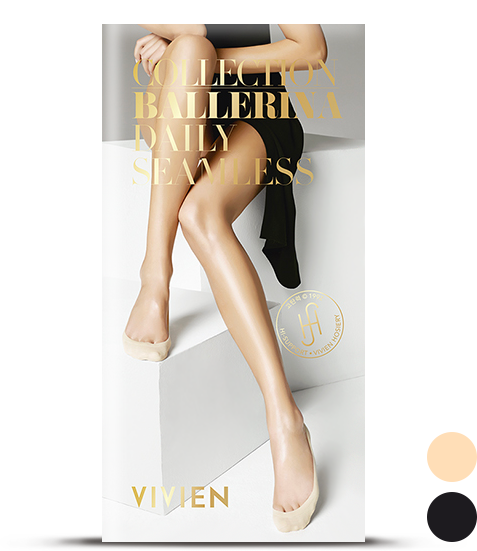
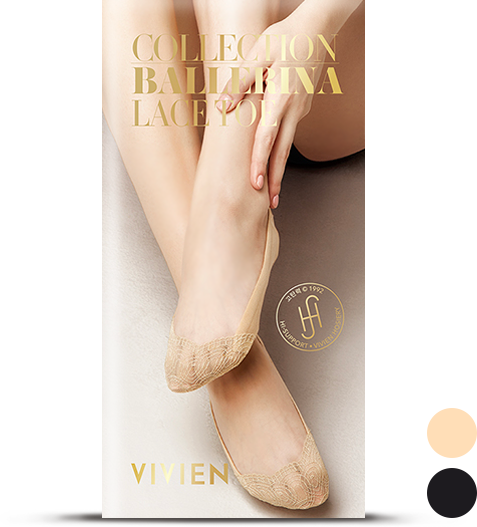
마이그레이션 > 신제품 (단종)

diff --git a/_ui/responsive/html/product/one-for-one/seasonal-product-and-others/e-comm_LP_9796_10_Vivien_Daily_Sewn_Slippers.html b/_ui/responsive/html/product/one-for-one/seasonal-product-and-others/e-comm_LP_9796_10_Vivien_Daily_Sewn_Slippers.html
@@ -1,0 +1,146 @@
+<!DOCTYPE html>
+<html lang="ko">
+<head>
+	<title>제품상세 | ABN Korea</title>
+	<meta http-equiv="Content-Type" content="text/html; charset=utf-8">
+	<meta http-equiv="X-UA-Compatible" content="IE=edge">
+	<meta charset="utf-8">
+	<meta name="viewport" content="width=device-width, initial-scale=1">
+	<meta name="keywords">
+	<meta name="description" content="NY Fee Bundle">
+	<meta name="robots" content="index,follow">
+
+	<link rel="stylesheet" type="text/css" href="/_ui/responsive/theme-blue/css/akl-lib.css"><!-- 플러그인용 css : 2018.03.14 추가  -->
+	<link rel="stylesheet" type="text/css" href="/_ui/responsive/theme-blue/css/base.css">
+	<link rel="stylesheet" type="text/css" href="/_ui/responsive/theme-blue/css/akl-common.css">
+	<script type="text/javascript" src="/_ui/responsive/theme-blue/js/jquery.min.js"></script>
+	<script type="text/javascript" src="/_ui/responsive/theme-blue/js/bootstrap.min.js"></script>
+	<script type="text/javascript" src="/_ui/responsive/theme-blue/js/bootstrap.datepicker.js"></script><!-- datepicker : 2018.03.19 추가  -->
+	<script type="text/javascript" src="/_ui/responsive/theme-blue/js/owl.carousel.js"></script>
+	<script type="text/javascript" src="/_ui/responsive/theme-blue/js/isotope.pkgd.js"></script><!-- gnb 플러그인 : 2018.03.23 추가  -->
+	<script type="text/javascript" src="/_ui/responsive/theme-blue/js/select2.js"></script>
+	<script type="text/javascript" src="/_ui/responsive/theme-blue/js/new.js"></script>
+	<script type="text/javascript" src="/_ui/responsive/theme-blue/js/jquery.raty.min.js"></script>
+	<script type="text/javascript" src="/_ui/responsive/theme-blue/js/akl_common.js"></script>
+</head>
+
+<body class="akl">
+	<!-- skipToContent -->
+	<div id="skipToContent">
+	<a href="#contents">콘텐츠 바로가기 </a>
+	</div>
+	<!-- //skipToContent -->
+
+	<main>
+		<div id="header"></div>
+		<div class="container-fluid main-container" id="contents">
+			<div class="print-hide breadcrumb-section">
+				<ol class="breadcrumb">
+					<li><a href="#">홈</a></li>
+					<li><a href="#">뷰티</a></li>
+					<li><a href="category-page.html">메이크업</a></li>
+					<li class="active">포인트 메이크업</li>
+				</ol>
+			</div>
+		</div>
+		<div class="header-margin hidden-sm hidden-xs"></div>
+
+		<div class="container-fluid main-container">
+
+			<div class="amway-theme">
+				<div class="accordion-element new-accordion-element" id="productPageAccordion" role="tablist" aria-multiselectable="true">
+
+					<div class="panel panel-default accordion-panel">
+						<div class="accordion-panel-heading" role="tab" id="details">
+							<a class="accordion-toggle collapsed" data-toggle="collapse" data-parent="#productPageAccordion" href="#electr">
+								<div class="accordion-panel-title panel-title">
+									<span class="accordion-title-wrapper">
+										<span class="title-element accordion-header-icon"></span>
+										<span class="title-element title-text">&acute;전자상거래 등에서의 상품 등의 정보제공에 관한 고시&acute; 개정에 따른 항목</span>
+										<span class="title-element accordion-icon-wrapper"></span>
+									</span>
+								</div>
+							</a>
+						</div>
+						<div id="electr" class="accordion-panel-collapse panel-collapse collapse in" role="tabpanel" aria-labelledby="details">
+							<div class="panel-body electr">
+								<div class="accordion-collapse-wrapper">
+									<div class="truncated-text">
+										<div class="table-content">
+											<!-- 전자상거래 등에서의 상품정보 제공 고시 Start -->
+											<ul class="ecommerce-lst">
+												<li>
+													<div class="th-tit">포장단위별 용량(중량), 수량</div>
+													<div class="td-txt">3켤레/1세트</div>
+												</li>
+												<li>
+													<div class="th-tit">소비자상담 관련 전화번호</div>
+													<div class="td-txt">남영비비안 고객상담실: 080-920-3333<br>
+														한국암웨이 고객센터: 1588-0080</div>
+												</li>
+												<li>
+													<div class="th-tit">품명 및 모델명</div>
+													<div class="td-txt">비비안 니하이 와이드밴드 삭스</div>
+												</li>
+												<li>
+													<div class="th-tit">색상</div>
+													<div class="td-txt">누드베이지 2켤레/블랙 1켤레</div>
+												</li>
+												<li>
+													<div class="th-tit">재질 (섬유의 경우 혼용률)</div>
+													<div class="td-txt">나일론, 폴리우레탄</div>
+												</li>
+												<li>
+													<div class="th-tit">사용연령 또는 체중범위(품질경영 및 공산품안전관리법에 따라 표시해야 하는 사항은 반드시 표기)</div>
+													<div class="td-txt">
+														신장: 155~170cm<br>
+														엉덩이둘레: 85~100cm
+													</div>
+												</li>
+												<li>
+													<div class="th-tit">제조자, 수입품의 경우 수입자를 함께 표기 (병행수입의 경우 병행수입 여부로 대체 가능)</div>
+													<div class="td-txt">(주)남영비비안 서울특별시 용산구 서빙고로 51길 52</div>
+												</li>
+												<li>
+													<div class="th-tit">제조국</div>
+													<div class="td-txt">대한민국</div>
+												</li>
+												<li>
+													<div class="th-tit">세탁방법 및 취급시 주의사항</div>
+													<div class="td-txt">
+														<ol class="decimal-num">
+															<li>1. 허리밴드의 : : : 표시 부분을 앞쪽으로 착용하십시오.</li>
+															<li>2. 중성세제를 이용해 손으로 세탁 하십시오.</li>
+															<li>3. 짙은 색상과 밝은 색상 제품은 반드시 분리하여 단독세탁 하십시오.</li>
+														</ol>
+													</div>
+												</li>												
+												<li>
+													<div class="th-tit">품질보증기준</div>
+													<div class="td-txt">제품에 하자가 있는 경우 공정거래위원회 고시 소비자 분쟁해결기준에 따른 교환 및 반품이 가능합니다.</div>
+												</li>
+												<li>
+													<div class="th-tit">A/S 책임자와 전화번호</div>
+													<div class="td-txt">남영비비안 고객상담실: 080-920-3333</div>
+												</li>
+											</ul>
+											<!-- 전자상거래 등에서의 상품정보 제공 고시 End -->
+										</div>
+									</div>
+								</div>
+							</div>
+						</div>
+					</div>
+
+				</div>
+			</div>
+
+		</div>
+
+		<div id="quick"></div>
+		<div id="footer"></div>
+	</main>
+
+</body>
+</html>
+

diff --git a/_ui/responsive/html/product/one-for-one/seasonal-product-and-others/LP_9297_10_Vivien_Valerina_Reiss_Tuchexin.html b/_ui/responsive/html/product/one-for-one/seasonal-product-and-others/LP_9297_10_Vivien_Valerina_Reiss_Tuchexin.html
@@ -1,7 +1,7 @@
 <!DOCTYPE html>
 <html lang="ko">
 <head>
-	<title>비비안 데일리 무봉제 덧신 상세정보</title>
+	<title>비비안 발레리나 레이스 토우 덧신 상세정보</title>
 	<meta http-equiv="Content-Type" content="text/html; charset=utf-8">
 	<meta http-equiv="X-UA-Compatible" content="IE=edge">
 	<meta charset="utf-8">
@@ -65,50 +65,36 @@
 											<div class="v-logo"><img src="/_ui/responsive/theme-blue/images/akl_product/common/logo_vivien.png" alt="VIVIEN 로고"></div>
 											<div class="txt-info-visual">
 												<div class="v-logo-txt">각종 패션 관련 제품과 특정 시즌에만 출시되는 제품입니다.</div>
-												<div class="v-tit">비비안 <span class="beige02">데일리 무봉제 덧신</span></div>
+												<div class="v-tit">비비안 <span class="beige02">발레리나 레이스 토우 덧신</span></div>
 												<p class="v-txt">
-													발등 부분에 봉제 라인이 없어 발이 배기지 않고 편안한 무지 덧신입니다.<br>
+													신축성 있는 레이스토우 포인트가 여성스러운 덧신입니다.<br>
 													덧신 안쪽 테두리에 실리콘 처리가 되어 있어 착용 시 발에 자국이 남지 않으며 쉽게 벗겨지지 않습니다.<br>
 													발바닥 앞쪽에 부착된 실리콘이 밀림현상을 방지합니다.<br>
-													면 원단을 사용하여 흡수가 잘 되며 위생적입니다.
+													면(COTTON) 원단을 사용하여 땀 흡수가 잘되며 위생적입니다.
 												</p>	
 											</div>	
 											<div class="v-pro">
-												<span><img src="/_ui/responsive/theme-blue/images/akl_product/one-for-one/visual_top_9295.png" alt="비비안 데일리 무봉제 덧신 이미지"></span>
+												<span><img src="/_ui/responsive/theme-blue/images/akl_product/one-for-one/visual_top_9296.png" alt="비비안 발레리나 레이스 토우 덧신 이미지"></span>
 											</div>
 										</div>
 										<!-- //비주얼 영역 -->
 										
 										<!--  content 영역 -->
 										<div class="detail-content-area vivien-cont-wrap">
-										
-											<div class="product-rank type02 aroma gray">
-												<div class="rank-img">
-													<span class="img-box"><img src="/_ui/responsive/theme-blue/images/akl_product/one-for-one/logo_aroma.png" alt="로고"></span>
-												</div>
-												<div class="rank-box">
-													<div class="com-tit2">아로마 마이크로 캡슐 공법이란?</div>
-													<p class="rank-txt">항균 효과가 있는 송침유(소나무에서 추출한 기름)를 마이크로 캡슐화하여 섬유에 부착하는 기술입니다.<br>
-														마찰에 의해 캡슐이 터지면서 유해균(황색포도상구균, 폐렴균)의 번식을 억제하고 은은한 자연의 향으로 쾌적함을 유지합니다.<br>
-														비비안이 암웨이만을 위해 특별히 적용한 기술을 만나보세요.</p>
-												</div>
-											</div>
-											
-											
 											<div class="ingestion-usage info-deth-lst">
 												<dl>
 													<dt>제조국</dt>
 													<dd>
 														<ul class="norm-lst">
-															<li>대한민국</li>
+															<li>베트남</li>
 														</ul>
 													</dd>
-													</dl>												
+													</dl>								
 												<dl>
 													<dt>내용량</dt>
 													<dd>
 														<ul class="norm-lst">
-															<li>3켤레(누드베이지 2켤레, 블랙 1켤레)</li>
+															<li>누드베이지 2켤레, 블랙 1켤레 / 세트</li>
 														</ul>
 													</dd>
 												</dl>												

diff --git a/_ui/responsive/html/product/one-for-one/seasonal-product-and-others/LP_9296_10_Vivien_Valerina_Reiss_Tuchexin.html b/_ui/responsive/html/product/one-for-one/seasonal-product-and-others/LP_9296_10_Vivien_Valerina_Reiss_Tuchexin.html
@@ -1,7 +1,7 @@
 <!DOCTYPE html>
 <html lang="ko">
 <head>
-	<title>비비안 데일리 무봉제 덧신 상세정보</title>
+	<title>비비안 발레리나 레이스 토우 덧신 상세정보</title>
 	<meta http-equiv="Content-Type" content="text/html; charset=utf-8">
 	<meta http-equiv="X-UA-Compatible" content="IE=edge">
 	<meta charset="utf-8">
@@ -65,36 +65,22 @@
 											<div class="v-logo"><img src="/_ui/responsive/theme-blue/images/akl_product/common/logo_vivien.png" alt="VIVIEN 로고"></div>
 											<div class="txt-info-visual">
 												<div class="v-logo-txt">각종 패션 관련 제품과 특정 시즌에만 출시되는 제품입니다.</div>
-												<div class="v-tit">비비안 <span class="beige02">데일리 무봉제 덧신</span></div>
+												<div class="v-tit">비비안 <span class="beige02">발레리나 레이스 토우 덧신</span></div>
 												<p class="v-txt">
-													발등 부분에 봉제 라인이 없어 발이 배기지 않고 편안한 무지 덧신입니다.<br>
+													신축성 있는 물방울 무늬 레이스 토우 포인트가 여성스러운 덧신입니다.<br>
 													덧신 안쪽 테두리에 실리콘 처리가 되어 있어 착용 시 발에 자국이 남지 않으며 쉽게 벗겨지지 않습니다.<br>
 													발바닥 앞쪽에 부착된 실리콘이 밀림현상을 방지합니다.<br>
-													면 원단을 사용하여 흡수가 잘 되며 위생적입니다.
+													면 원단을 사용하여 땀 흡수가 잘되며 위생적입니다.
 												</p>	
 											</div>	
 											<div class="v-pro">
-												<span><img src="/_ui/responsive/theme-blue/images/akl_product/one-for-one/visual_top_9295.png" alt="비비안 데일리 무봉제 덧신 이미지"></span>
+												<span><img src="/_ui/responsive/theme-blue/images/akl_product/one-for-one/visual_top_9296.png" alt="비비안 발레리나 레이스 토우 덧신 이미지"></span>
 											</div>
 										</div>
 										<!-- //비주얼 영역 -->
 										
 										<!--  content 영역 -->
 										<div class="detail-content-area vivien-cont-wrap">
-										
-											<div class="product-rank type02 aroma gray">
-												<div class="rank-img">
-													<span class="img-box"><img src="/_ui/responsive/theme-blue/images/akl_product/one-for-one/logo_aroma.png" alt="로고"></span>
-												</div>
-												<div class="rank-box">
-													<div class="com-tit2">아로마 마이크로 캡슐 공법이란?</div>
-													<p class="rank-txt">항균 효과가 있는 송침유(소나무에서 추출한 기름)를 마이크로 캡슐화하여 섬유에 부착하는 기술입니다.<br>
-														마찰에 의해 캡슐이 터지면서 유해균(황색포도상구균, 폐렴균)의 번식을 억제하고 은은한 자연의 향으로 쾌적함을 유지합니다.<br>
-														비비안이 암웨이만을 위해 특별히 적용한 기술을 만나보세요.</p>
-												</div>
-											</div>
-											
-											
 											<div class="ingestion-usage info-deth-lst">
 												<dl>
 													<dt>제조국</dt>
@@ -103,7 +89,7 @@
 															<li>대한민국</li>
 														</ul>
 													</dd>
-													</dl>												
+													</dl>					
 												<dl>
 													<dt>내용량</dt>
 													<dd>

diff --git a/_ui/responsive/html/product/one-for-one/seasonal-product-and-others/LP_9796_10_Vivien_Daily_Sewn_Slippers.html b/_ui/responsive/html/product/one-for-one/seasonal-product-and-others/LP_9796_10_Vivien_Daily_Sewn_Slippers.html
@@ -67,14 +67,14 @@
 												<div class="v-logo-txt">각종 패션 관련 제품과 특정 시즌에만 출시되는 제품입니다.</div>
 												<div class="v-tit">비비안 <span class="beige02">데일리 무봉제 덧신</span></div>
 												<p class="v-txt">
-													발등 부분에 봉제 라인이 없어 발이 배기지 않고 편안한 무지 덧신입니다.<br>
+													신자 않은 듯 가볍고 자연스러운 무지 덧신입니다.<br>
+													덧신의 발등 부분에 봉제 라인이 없어서 배기지 않고 편안합니다.<br>
 													덧신 안쪽 테두리에 실리콘 처리가 되어 있어 착용 시 발에 자국이 남지 않으며 쉽게 벗겨지지 않습니다.<br>
-													발바닥 앞쪽에 부착된 실리콘이 밀림현상을 방지합니다.<br>
-													면 원단을 사용하여 흡수가 잘 되며 위생적입니다.
+													발바닥 앞쪽에도 실리콘이 부착되어 있어 밀림현상을 방지하며 면(COTTON) 원단을 사용하여 땀 흡수가 잘되고 위생적입니다.
 												</p>	
 											</div>	
 											<div class="v-pro">
-												<span><img src="/_ui/responsive/theme-blue/images/akl_product/one-for-one/visual_top_9295.png" alt="비비안 데일리 무봉제 덧신 이미지"></span>
+												<span><img src="/_ui/responsive/theme-blue/images/akl_product/one-for-one/visual_top_9796.png" alt="비비안 데일리 무봉제 덧신 이미지"></span>
 											</div>
 										</div>
 										<!-- //비주얼 영역 -->
